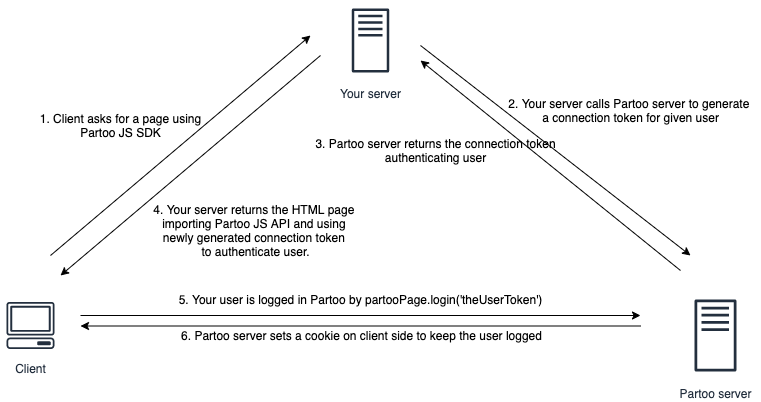
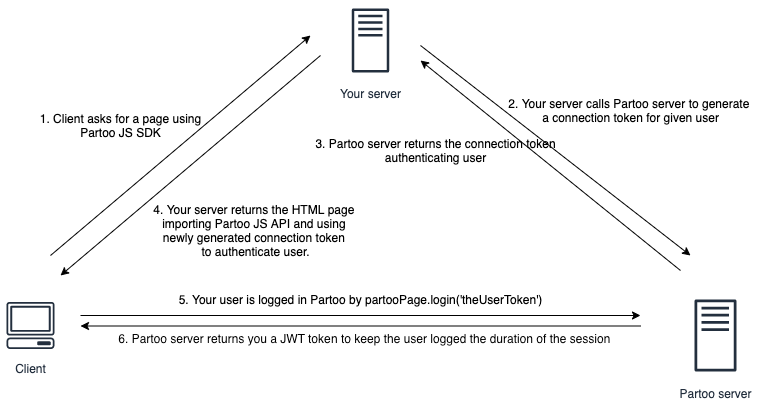
update Partoo JS SDK documentation

Changed region(s): [[0.1511, 0.806, 0.816, 0.8657]]

diff --git a/js_sdk/guides/navigation.rst b/js_sdk/guides/navigation.rst
@@ -75,7 +75,7 @@ You can integrate this page by doing:
 
 .. code-block:: javascript
 
-    var partooPage = Partoo('partoo-container', {});
+    var partooPage = Partoo.init('partoo-container', {});
 
     // if you want to pre-fill some inputs in the Lab form
     var seedData = {
@@ -96,7 +96,7 @@ You can integrate this page by doing:
 
 **Available callbacks**
 
-The are 4 available callbacks:
+There are 4 available callbacks:
  - Lab create button callback :ref:`callbacks_lab_create_callback`
  - Lab sign up button callback :ref:`callbacks_lab_sign_up_callback`
  - Lab login button callback :ref:`callbacks_lab_login_callback`
@@ -113,7 +113,7 @@ You can integrate this page by doing:
 
 .. code-block:: javascript
 
-    var partooPage = Partoo('partoo-container', {});
+    var partooPage = Partoo.init('partoo-container', {});
     var userToken = 'serverSideGeneratedToken';
 
     partooPage.login(userToken); // authentication is mandatory access add page
@@ -141,7 +141,7 @@ You can integrate this page by doing:
 
 .. code-block:: javascript
 
-    var partooPage = Partoo('partoo-container', {});
+    var partooPage = Partoo.init('partoo-container', {});
     var userToken = 'serverSideGeneratedToken';
 
     partooPage.login(userToken); // authentication is mandatory access add page
@@ -166,7 +166,7 @@ You can integrate this page by doing:
 
 .. code-block:: javascript
 
-    var partooPage = Partoo('partoo-container', {});
+    var partooPage = Partoo.init('partoo-container', {});
     var userToken = 'serverSideGeneratedToken';
 
     partooPage.login(userToken); // authentication is mandatory access add page
@@ -178,7 +178,7 @@ You can integrate this page by doing:
 
 **Available callbacks**
 
-The is 1 available callback:
+There is 1 available callback:
  - Business created callback :ref:`callbacks_business_created_callback`
 
 .. _pages_integration_analytics_page:
@@ -192,7 +192,7 @@ You can integrate this page by doing:
 
 .. code-block:: javascript
 
-    var partooPage = Partoo('partoo-container', {});
+    var partooPage = Partoo.init('partoo-container', {});
     var userToken = 'serverSideGeneratedToken';
 
     partooPage.login(userToken); // authentication is mandatory access add page
@@ -213,7 +213,7 @@ You can integrate this page by doing:
 
 .. code-block:: javascript
 
-    var partooPage = Partoo('partoo-container', {});
+    var partooPage = Partoo.init('partoo-container', {});
     var userToken = 'serverSideGeneratedToken';
 
     partooPage.login(userToken); // authentication is mandatory access add page
@@ -221,7 +221,7 @@ You can integrate this page by doing:
 
 **Available callbacks**
 
-The are 2 available callbacks:
+There are 2 available callbacks:
  - Go to edit click callback :ref:`callbacks_go_to_edit_callback`
  - Go to partner connection click callback :ref:`callbacks_go_to_partner_connection_callback`
 
@@ -236,7 +236,7 @@ You can integrate this page by doing:
 
 .. code-block:: javascript
 
-    var partooPage = Partoo('partoo-container', {});
+    var partooPage = Partoo.init('partoo-container', {});
     var userToken = 'serverSideGeneratedToken';
 
     partooPage.login(userToken); // authentication is mandatory access add page
@@ -257,7 +257,7 @@ You can integrate this page by doing:
 
 .. code-block:: javascript
 
-    var partooPage = Partoo('partoo-container', {});
+    var partooPage = Partoo.init('partoo-container', {});
     var userToken = 'serverSideGeneratedToken';
 
     partooPage.login(userToken); // authentication is mandatory access add page
@@ -278,7 +278,7 @@ You can integrate this page by doing:
 
 .. code-block:: javascript
 
-    var partooPage = Partoo('partoo-container', {});
+    var partooPage = Partoo.init('partoo-container', {});
     var userToken = 'serverSideGeneratedToken';
 
     partooPage.login(userToken); // authentication is mandatory access add page
@@ -299,7 +299,7 @@ You can integrate this page by doing:
 
 .. code-block:: javascript
 
-    var partooPage = Partoo('partoo-container', {});
+    var partooPage = Partoo.init('partoo-container', {});
     var userToken = 'serverSideGeneratedToken';
 
     partooPage.login(userToken); // authentication is mandatory access add page
@@ -320,7 +320,7 @@ You can integrate this page by doing:
 
 .. code-block:: javascript
 
-    var partooPage = Partoo('partoo-container', {});
+    var partooPage = Partoo.init('partoo-container', {});
     var userToken = 'serverSideGeneratedToken';
 
     partooPage.login(userToken); // authentication is mandatory access add page

diff --git a/js_sdk/guides/authentication.rst b/js_sdk/guides/authentication.rst
@@ -4,11 +4,7 @@ Authenticating your user
 ==========================================
 
 .. warning::
-    There are known issues with Safari.
-    If your are developing an integration for Safari, please make sure to check `Safari integration limits`_ below.
-
-.. warning::
-    It is possible to login user using API key instead of connection token. **This is a deprecated behaviour that will be dropped on September the 1st, 2020**.
+    It is possible to login user using API key instead of connection token. **This is a deprecated behaviour that will be dropped on June the 15th, 2021**.
 
 Most of Partoo App pages requires the user to be authenticated.
 
@@ -22,10 +18,10 @@ Once your connection token is generated, you can authenticate your user using th
     partooPage.login('the-connection-token');  // this will log user and redirect him/her to the startPage (by default the business list)
 
 This will make a call to partoo login view with the connection token in the query params.
-Our application will recognize the connection token and set a session cookie on the user browser.
-Thanks to this session cookie, the user will stay authenticated on the following calls.
+Our application will recognize the connection token and return a JWT token.
+Thanks to this JWT token, the user will stay authenticated on the following calls.
 
-Once the session cookie is expired you must re-authenticate the user.
+Once the JWT token is expired you must re-authenticate the user.
 As a connection token is short-lived & consumable, ie. it can be used only once,
 you need to implement a integration to easily regenerate a connection token when your user access a protected view.
 You can find below the schema of a possible integration:
@@ -33,19 +29,3 @@ You can find below the schema of a possible integration:
 .. image:: ../images/authentication_schema.png
   :width: 600
   :alt: Authentication schema example
-
-.. _safari_integration_limits:
-
-Safari integration limits
--------------------------------------------
-
-By default, Safari prevent Iframes from setting cookie (to prevent commercial tracking based on cookie).
-As the user authentication is based on cookie,
-it means that by default it is not possible to log user with the JS SDK if the user is using Safari.
-
-The user must change this default behaviour in Safari settings for the integration to work.
-The setting is located in `Settings > Privacy > Website tracking` (see below).
-
-.. image:: ../images/safari_cross_site_tracking.gif
-  :width: 600
-  :alt: Safari modifying settings

diff --git a/js_sdk/references.rst b/js_sdk/references.rst
@@ -52,10 +52,6 @@ Set options to override some behaviour on Partoo App.
 **login** (connectionToken: `string`)
 """"""""""""""""""""""""""""""""""""""""""""""""""""""""""""""""""""""""""""""""
 
-.. warning::
-    There are known issues with Safari.
-    If your are developing an integration for Safari, please make sure to check :ref:`safari_integration_limits`.
-
 Log user on Partoo App using the ``connectionToken`` and redirects to the ``startPage`` defined in `Options object`_.
 
 **Parameters:**

diff --git a/js_sdk/change_log.rst b/js_sdk/change_log.rst
@@ -3,6 +3,10 @@ Change Log
 
 You can find below the changes made on the JS API order by descending date.
 
+2021-05: Major change
+---------------------------------
+  - because of third party cookies policy, the Partoo JS SDK is now using JWT token to keep the user logged instead of session cookie.
+
 2019-03-20: Minor changes
 ---------------------------------
 

diff --git a/js_sdk/getting_started.rst b/js_sdk/getting_started.rst
@@ -38,6 +38,8 @@ You first need to add a ``div`` in your HTML where the Partoo App Iframe is goin
 
     <div id="your-specific-id"></div>
 
+⚠ The id of your ``div`` can't be called ``partoo-iframe`` because we're already used it in our integration.
+
 Then to display you first Partoo App view inside your HTML page:
 
 .. code-block:: javascript
